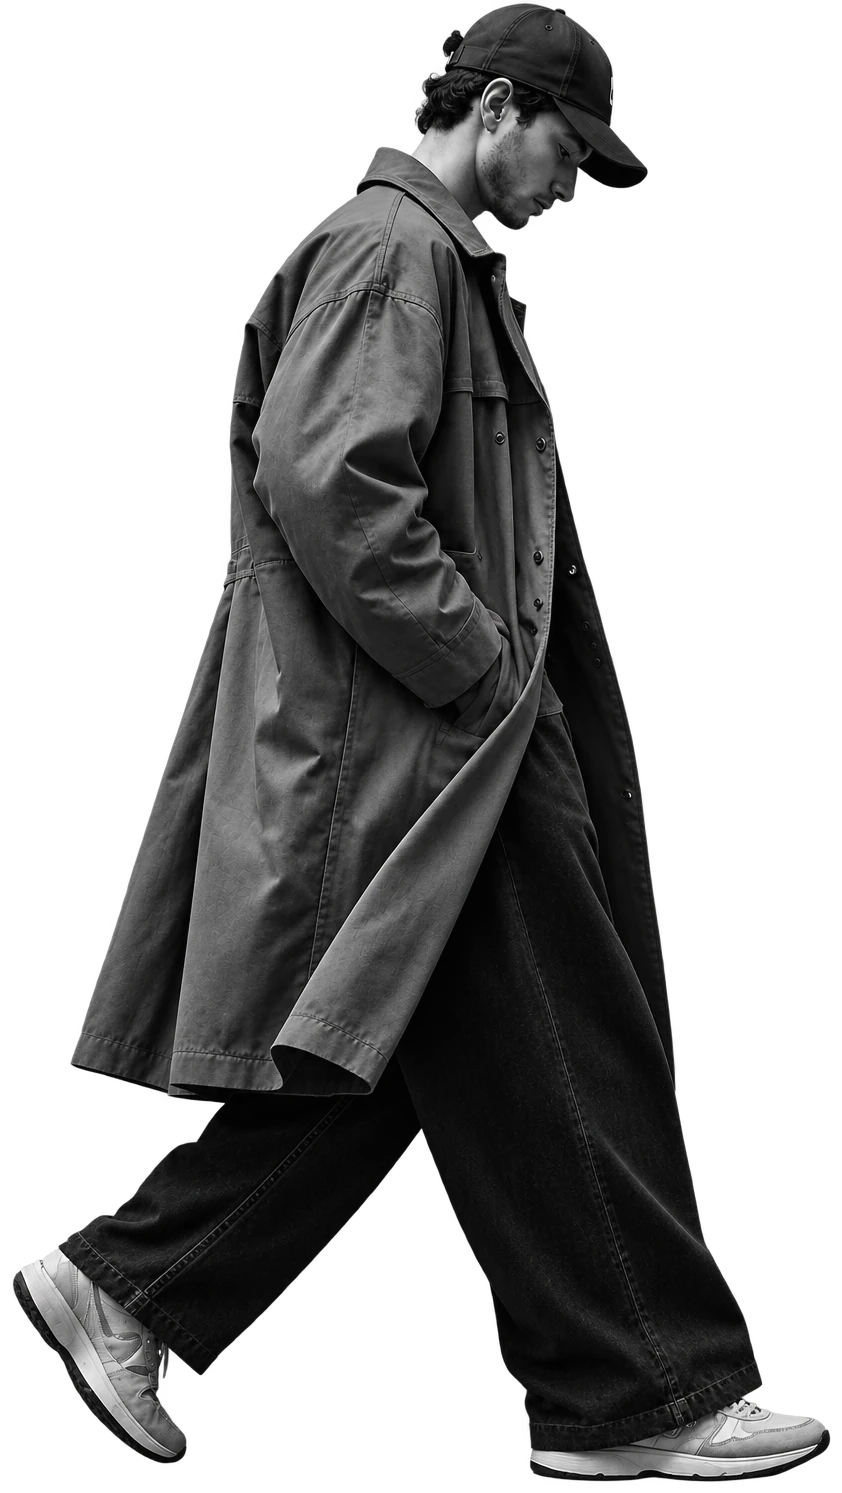
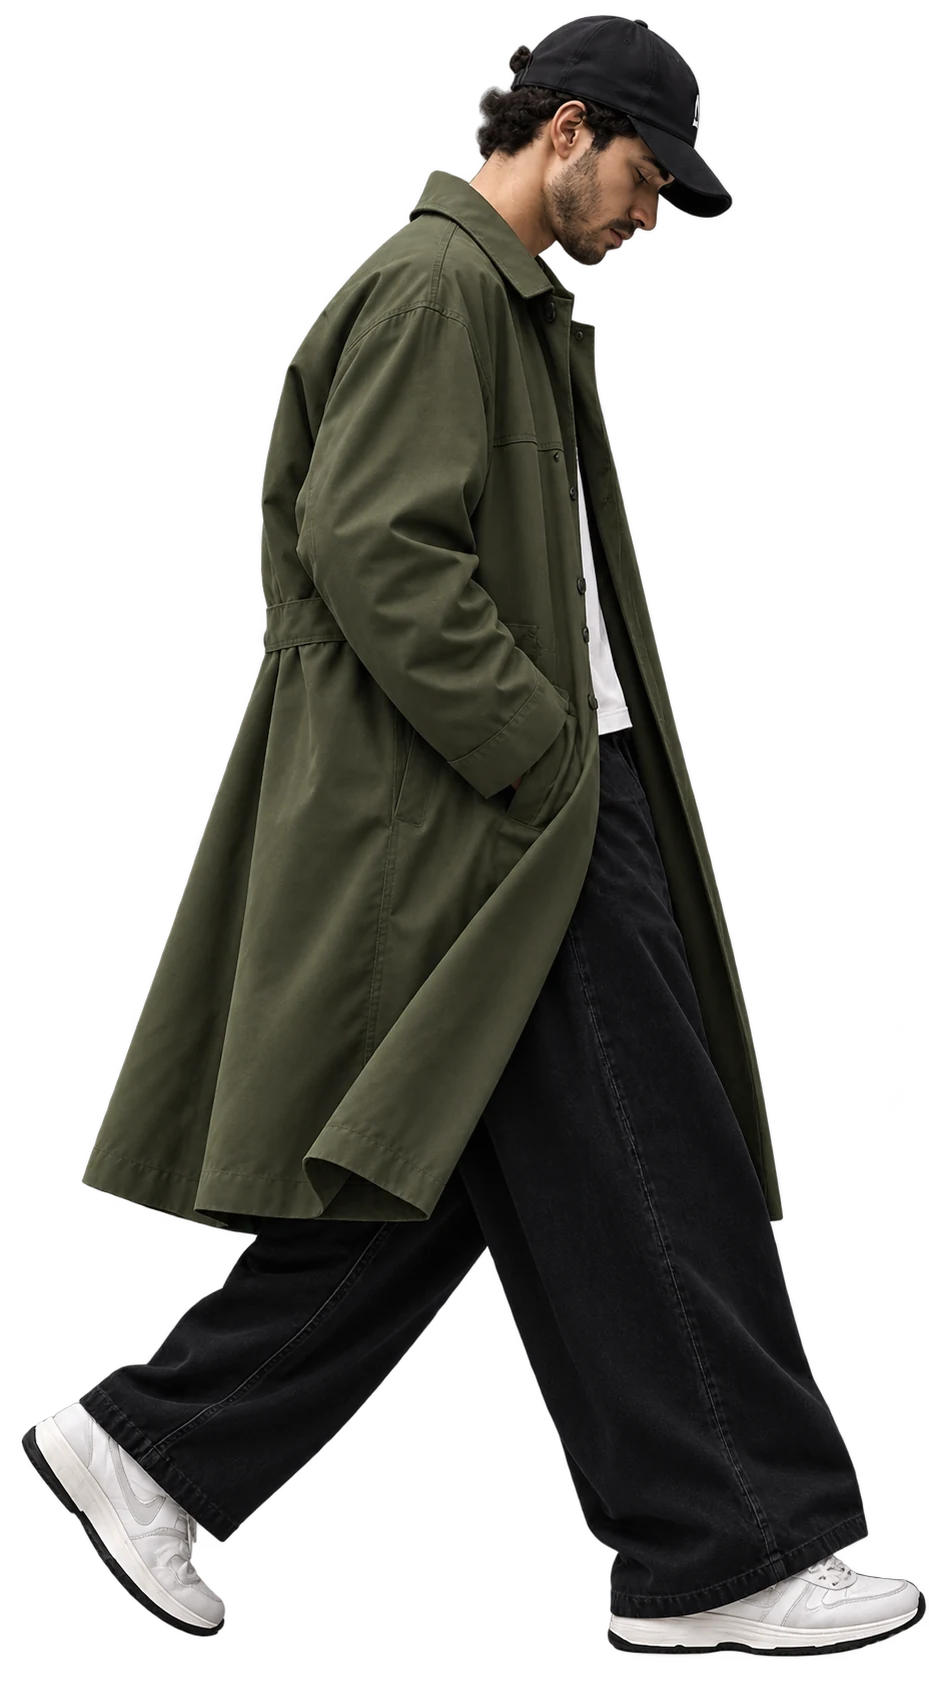
New hero model photo; restore dark footer

diff --git a/client/src/scope13-beige.css b/client/src/scope13-beige.css
@@ -19,7 +19,6 @@ html, body, .page, .home, .s13-home, .s13-flow { background: var(--bg-beige) !im
 .site-header, .site-header.solid, body:has(.s13-hero) .site-header:not(.compact) { background: linear-gradient(180deg, #F8F2E7, #F1E8D9) !important }
 .site-header .mega.mega-sm, .site-header .mega-tile, .drawer, .glass, .quick.glass, .search.glass { background-color: var(--bg-beige-lt) !important }
 .toolbar { background: linear-gradient(180deg, var(--bg-beige-lt), var(--bg-beige)) !important }
-.s13-foot { background: linear-gradient(180deg, var(--bg-beige-lt), var(--bg-beige-dp)) !important }
 /* hero keeps its colour glows over a beige base */
 .s13-home .s13-hero {
   background: radial-gradient(40% 55% at 86% 82%, rgba(44,123,198,.26), transparent 70%), radial-gradient(34% 46% at 8% 22%, rgba(224,166,58,.34), transparent 72%),

diff --git a/client/src/scope13-sitecolor.css b/client/src/scope13-sitecolor.css
@@ -64,8 +64,5 @@ input:focus, textarea:focus, select:focus { border-color: var(--sc-azure) !impor
 .ab3-link:hover { color: var(--sc-azure) }
 
 /* footer */
-.s13-foot { background: linear-gradient(180deg, #FAF5EC, var(--sc-mist)) }
-.s13-foot a:hover { color: var(--sc-azure) }
-.foot-h { color: var(--sc-steel) }
 .s13-foot-news { background: linear-gradient(100deg, var(--sc-deep2), var(--sc-deep)) }
 .foot-ig svg { color: var(--sc-coral) }
